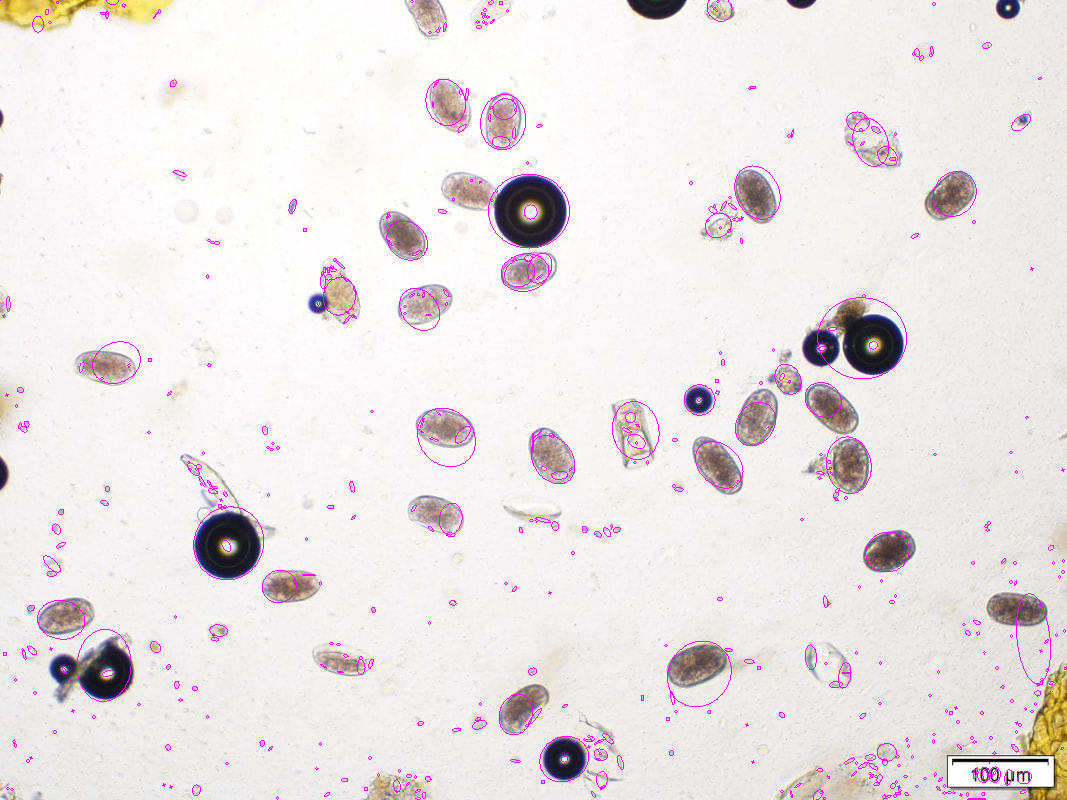
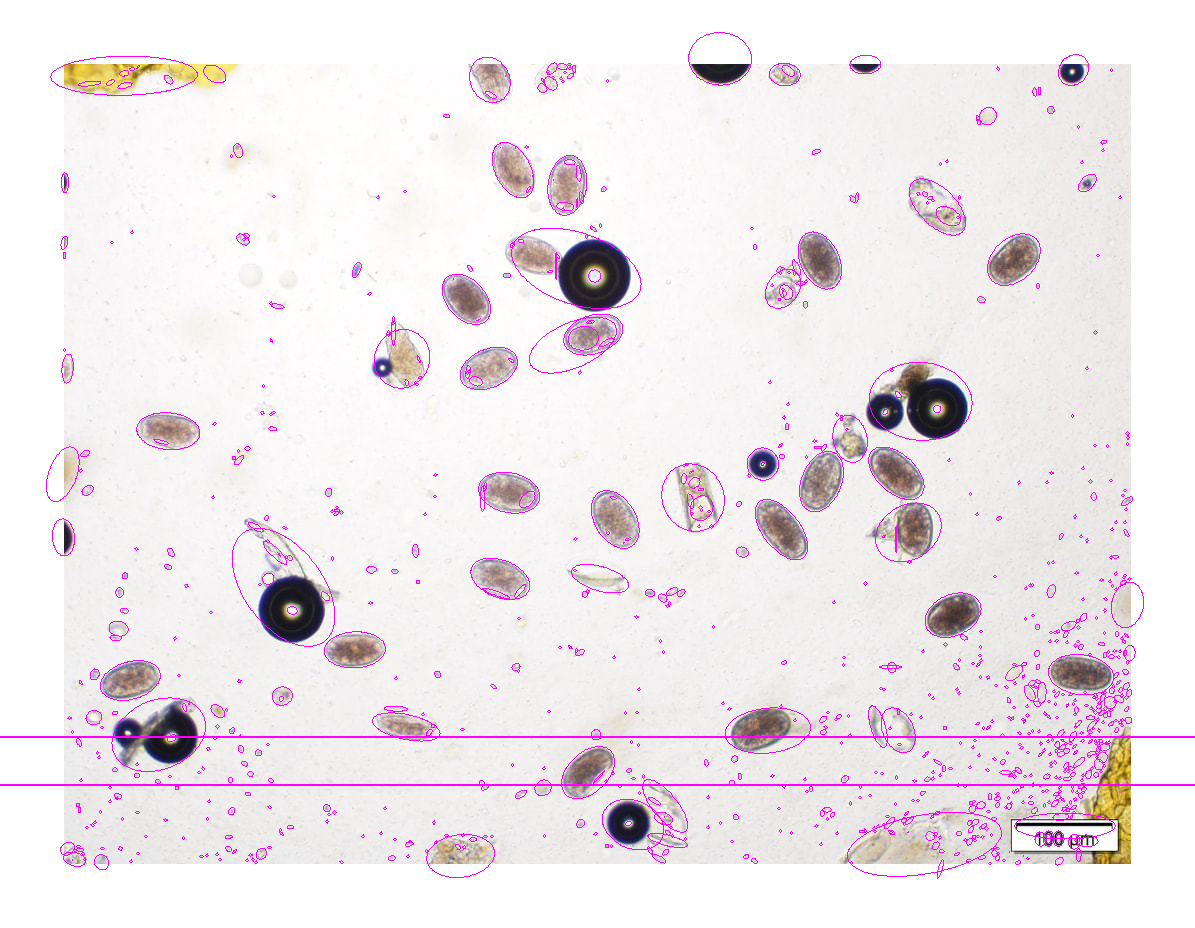
Implemented everything in python. RANSAC did not perform as well as polygonal analysis

diff --git a/ellipseDetector.py b/ellipseDetector.py
@@ -5,9 +5,26 @@ import random
 
 class ellipseDetector:
     
-    def __init__(self):
+    def __init__(self, ):
         pass
     
+    def assessEllipse(self, ellipse):
+        OT = 0.4 #OUTER THRESHOLD
+        IT = 0.8 #INNER THRESHOLD
+        
+        (center_x, center_y), (major_axis, minor_axis), angle = ellipse
+
+        # Calculate the area of the ellipse
+        area = np.pi * (major_axis/2) * (minor_axis/2)
+
+        # Calculate the aspect ratio of the ellipse
+        ar = major_axis / minor_axis
+        
+        good_ratio = (ar > OT and ar < IT) or (ar > 1/IT and ar <1/OT)
+        
+        return (area > 700 and area < 2000 and good_ratio)
+    
+
     def distPoint_Ellipse(self, BoundingRectangle, Point):
         (cxE, cyE), (WidthE, HeightE), rotE = BoundingRectangle
         ptX, ptY = Point[0], Point[1] * -1
@@ -27,14 +44,35 @@ class ellipseDetector:
         for i in range(MaxIterations):
             sample = np.array([Contour[i][0] for i in random.sample(range(len(Contour)),5)])
             potentFit = cv2.fitEllipseDirect(sample)
-            numInliers = 0
-            for pt in Contour:
-                pt = tuple(pt[0])
-                d = self.distPoint_Ellipse(potentFit, pt)[0]
-                if d < 15:
-                    numInliers += 1
-            if numInliers > maxInliers:
-                maxInliers = numInliers
-                bestFit = potentFit
+            
+            if self.assessEllipse(potentFit):
+                numInliers = 0
+                for pt in Contour:
+                    pt = tuple(pt[0])
+                    d = self.distPoint_Ellipse(potentFit, pt)[0]
+                    if d < 10:
+                        numInliers += 1
+                if numInliers > maxInliers:
+                    maxInliers = numInliers
+                    bestFit = potentFit
         
         return bestFit
+    
+    def fitEllipse_Polygon(self, Contour):
+        area = int(cv2.contourArea(Contour))  # Cast area to int (though not necessary in Python)
+        bounding_box = cv2.boundingRect(Contour)
+        aspect_ratio = bounding_box[2] / bounding_box[3]  # Width divided by Height
+
+        # Filter based on aspect ratio and minimum size
+        elongation_factor = abs(1 - aspect_ratio)
+        
+        if True: #0.1 < elongation_factor < 1 and 1000 < area < 4000:
+            # Approximate contour to smooth shape
+            epsilon = 0.01 * cv2.arcLength(Contour, True)
+            approx = cv2.approxPolyDP(Contour, epsilon, True)
+
+            if len(approx) > 4:  # Need at least 5 points to fit ellipse
+                fitted_ellipse = cv2.fitEllipse(approx)
+                # You can draw the ellipse on the image to visualize
+                return fitted_ellipse
+        return None

diff --git a/main.py b/main.py
@@ -1,12 +1,17 @@
 import cv2, sys
 import numpy as np
+from imageHelper import pad, pad_all
 
 from ellipseDetector import ellipseDetector
 
+def getBestEllipse(ellipseHelper, Contour):
+    return ellipseHelper.fitEllipse_Polygon(Contour)
 
 def main():
     saveImages = True
     displayImages = True
+    
+    
     
     fileName = "unlabaled3.jpg"
     thresh = 210
@@ -18,29 +23,45 @@ def main():
             thresh = int(sys.argv[i+1])
     
     im_gray = cv2.imread(fileName, cv2.IMREAD_GRAYSCALE)
+    
     binary = cv2.threshold(im_gray, thresh, 255, cv2.THRESH_BINARY)[1] 
+    
     
     #Otsu Test Can Be Implemented to Guess Threshold Values#
     #im_bw = cv2.threshold(im_gray, 0, 255, cv2.THRESH_BINARY+cv2.THRESH_OTSU)[1]
     
-    if (saveImages): cv2.imwrite("imThresh.png", binary)
+    
     
     contourImage = cv2.imread(fileName)
+    ellipseImage = cv2.imread(fileName)
     
+    print(binary.shape)
+    print(contourImage.shape)
+    print(contourImage)
     
+    im_gray, binary, contourImage, ellipseImage = pad_all([im_gray, binary, contourImage, ellipseImage])
+    
+    if (saveImages): cv2.imwrite("imThresh.png", binary)
+    
+    print(binary)
+    print(binary.shape, contourImage.shape)
+    #print(contourImage)
     
     contours = cv2.findContours(binary, cv2.RETR_TREE, cv2.CHAIN_APPROX_SIMPLE)[0]
     cv2.drawContours(contourImage, contours, -1, (0,0,0), 3)
     if (saveImages): cv2.imwrite("imContours.png", contourImage);
     
-    ellipseImage = cv2.imread(fileName)
+    print("savedContours");
+    print(len(contours));
+
     
     #RANSAC Approach O(n) Ellipse Fitting per Contour
     ellipseHelper = ellipseDetector()
     for contour in contours: 
         if len(contour)>=5:
-            bestEllipse = ellipseHelper.fitEllipse_RANSAC(contour)
-            cv2.ellipse(ellipseImage, bestEllipse, (255,0,255), 1)
+            bestEllipse = getBestEllipse(ellipseHelper, contour)
+            if not bestEllipse == None: 
+                cv2.ellipse(ellipseImage, bestEllipse, (255,0,255), 1)
     
     cv2.imwrite("imParasites.png", ellipseImage);
     

diff --git a/imageHelper.py b/imageHelper.py
@@ -1,0 +1,23 @@
+import cv2
+
+import numpy as np
+
+
+def pad(array):
+    # Pad the input array with one layer of zeros around it
+    padVal = 64
+    if len(array.shape) == 2:
+        padded_array = np.pad(array, pad_width=padVal, mode='constant', constant_values=255)
+    else:
+        pad_width = ((padVal,padVal),(padVal,padVal),(0,0))
+        padded_array = np.pad(array, pad_width=pad_width, mode='constant', constant_values=255)
+        
+    return padded_array
+
+def pad_all(arrayList):
+    return [pad(array) for array in arrayList]
+
+# Example usage:
+#input_array = np.array([[1, 2], [3, 4]])
+#output_array = pad_with_zeros(input_array)
+#print(output_array)
